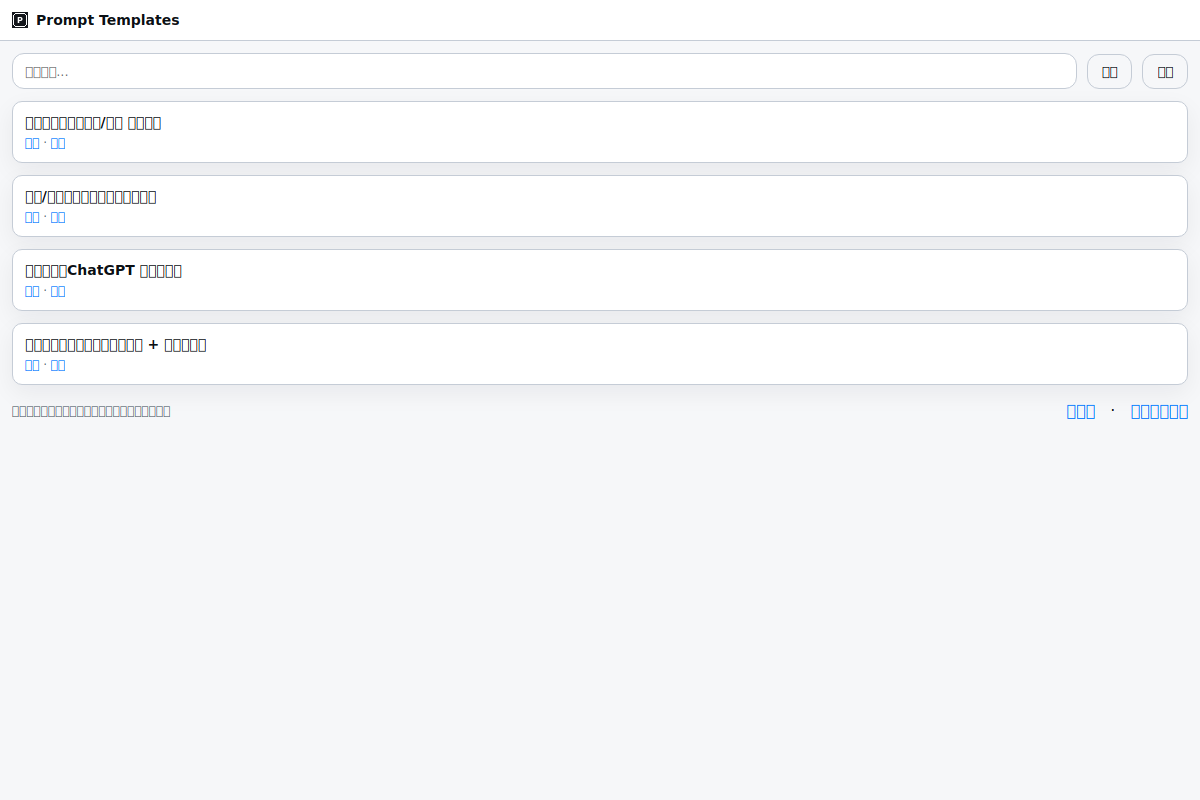
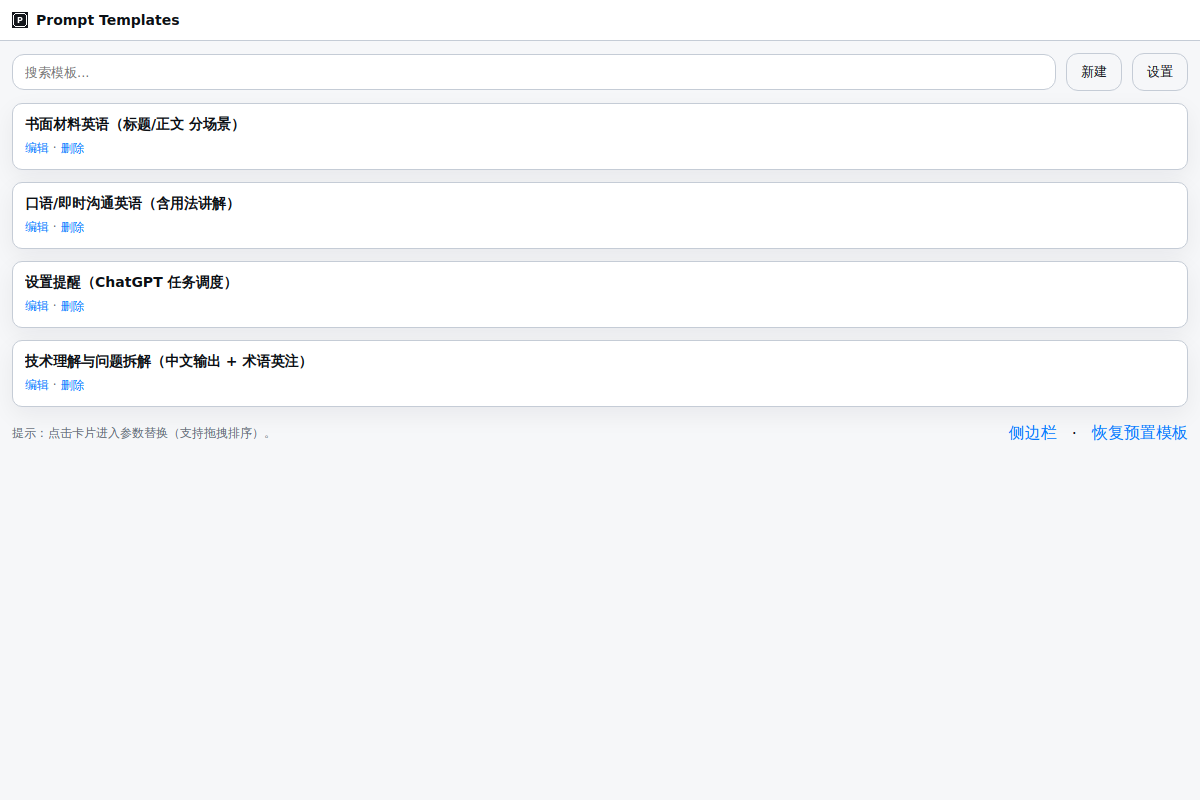
chore(screenshots): fix Chinese font and exact sizes; docs: update screenshot notes

Changed region(s): [[0.0, 0.0625, 0.9867, 0.5625], [0.8325, 0.5, 0.9867, 0.5625], [0.8633, 0.0625, 0.9867, 0.125]]

diff --git a/tools/screenshot.js b/tools/screenshot.js
@@ -18,7 +18,13 @@ async function ensureDir(p){ if(!fs.existsSync(p)) fs.mkdirSync(p, { recursive: 
   const browser = await puppeteer.launch({ headless: 'new', args: ['--no-sandbox','--disable-setuid-sandbox'] });
   const page = await browser.newPage();
 
+  await page.emulateTimezone('Asia/Shanghai');
+  try { await page.setExtraHTTPHeaders({ 'Accept-Language': 'zh-CN,zh;q=0.9' }); } catch(e){}
+
   await page.evaluateOnNewDocument(() => {
+    const style = document.createElement('style');
+    style.innerHTML = `*{ font-family: "Noto Sans CJK SC", "Noto Sans CJK", "WenQuanYi Zen Hei", "PingFang SC", "Microsoft YaHei UI", system-ui, -apple-system, Segoe UI, Roboto, Arial, sans-serif !important; }`;
+    document.documentElement.appendChild(style);
     window.chrome = {
       runtime: { id: 'dev-stub', sendMessage: (payload, cb) => { try { cb && cb({ ok:false }); } catch(e){} } },
       sidePanel: { open: async () => {} }
@@ -31,22 +37,23 @@ async function ensureDir(p){ if(!fs.existsSync(p)) fs.mkdirSync(p, { recursive: 
   await page.setViewport({ width: 1200, height: 800, deviceScaleFactor: 1 });
   await page.goto(fileUrl, { waitUntil: 'domcontentloaded' });
   await waitForCards(page);
-  await sleep(200);
+  await sleep(300);
   await page.screenshot({ path: path.join(assetsDir, 'home.png') });
 
   // Detail (Fill view)
+  await page.setViewport({ width: 1200, height: 900, deviceScaleFactor: 1 });
   await page.click('#cards .card');
   await page.waitForSelector('#fillView:not(.hidden)');
-  await sleep(200);
-  await page.setViewport({ width: 1200, height: 900, deviceScaleFactor: 1 });
+  await sleep(300);
   await page.screenshot({ path: path.join(assetsDir, 'detail.png') });
 
   // Back to gallery to click edit link
   await page.click('#back2');
   await waitForCards(page);
+  await page.setViewport({ width: 1200, height: 900, deviceScaleFactor: 1 });
   await page.click('#cards .card [data-edit]');
   await page.waitForSelector('#editView:not(.hidden)');
-  await sleep(200);
+  await sleep(300);
   await page.screenshot({ path: path.join(assetsDir, 'edit.png') });
 
   // Settings view
@@ -55,7 +62,7 @@ async function ensureDir(p){ if(!fs.existsSync(p)) fs.mkdirSync(p, { recursive: 
   await page.click('#settingsBtn');
   await page.waitForSelector('#settingsView:not(.hidden)');
   await page.setViewport({ width: 1000, height: 760, deviceScaleFactor: 1 });
-  await sleep(200);
+  await sleep(300);
   await page.screenshot({ path: path.join(assetsDir, 'settings.png') });
 
   await browser.close();

diff --git a/Readme.md b/Readme.md
@@ -41,10 +41,10 @@
 - 当前版本：`2.4.6`
 
 ### 截图（示例尺寸与说明）
-- 首页（模板库/搜索）：建议 1200×800，居中截取主要卡片与搜索框。
-- 模板详情页（填充/预览/插入按钮）：建议 1200×900，需展示“插入”“插入并发送”。
-- 新建/编辑页面（字段设计器）：建议 1200×900，包含字段类型下拉与“允许自定义/必填”。
-- 设置页（提供商与主题）：建议 1000×760，展示提供商下拉、常规/临时会话 URL 与主题切换。
+- 首页（模板库/搜索）：1200×800，PNG，中文正常显示。
+- 模板详情页（填充/预览/插入按钮）：1200×900，PNG，含“插入”“插入并发送”。
+- 新建/编辑页面（字段设计器）：1200×900，PNG。
+- 设置页（提供商与主题）：1000×760，PNG。
 
 请将真实截图放入 `edge-prompt-templates/assets/` 目录，并在上文位置按需内嵌或链接展示。
 
